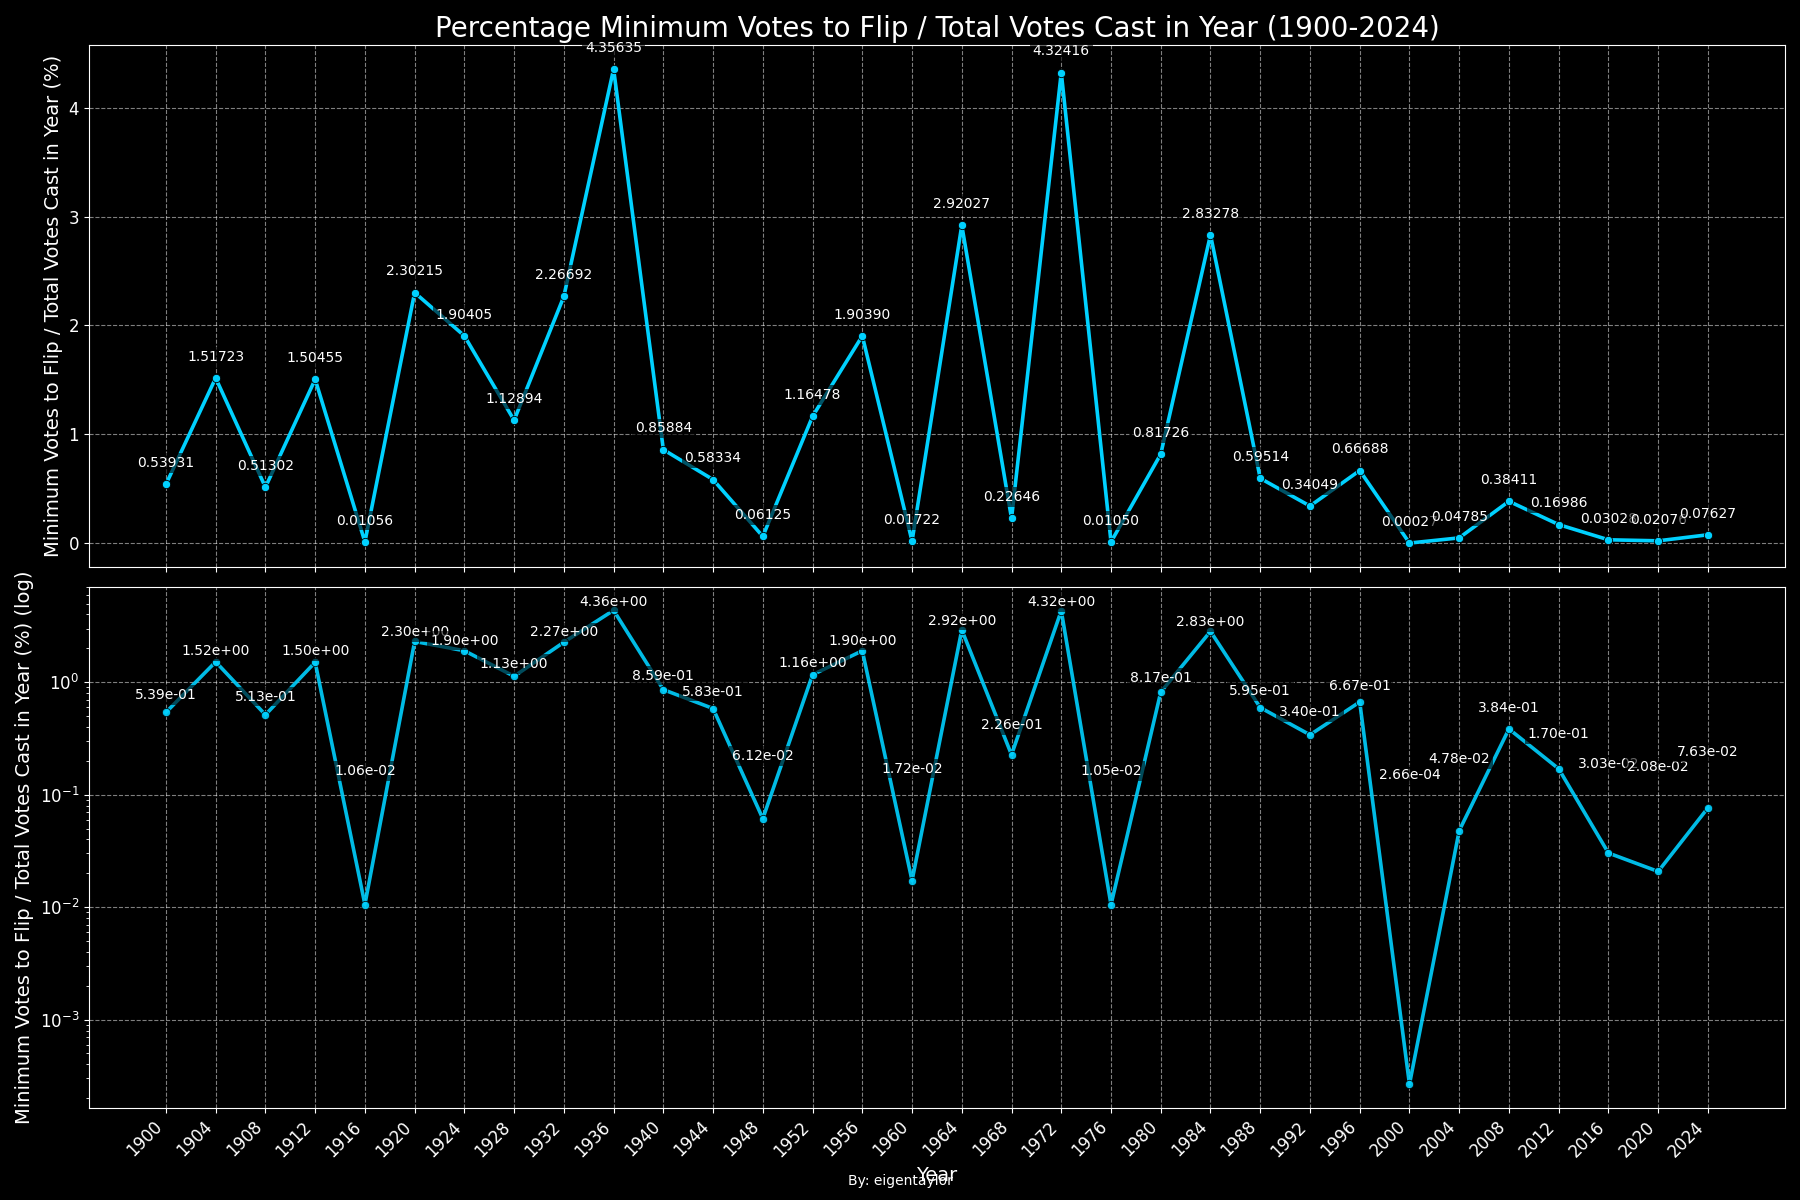
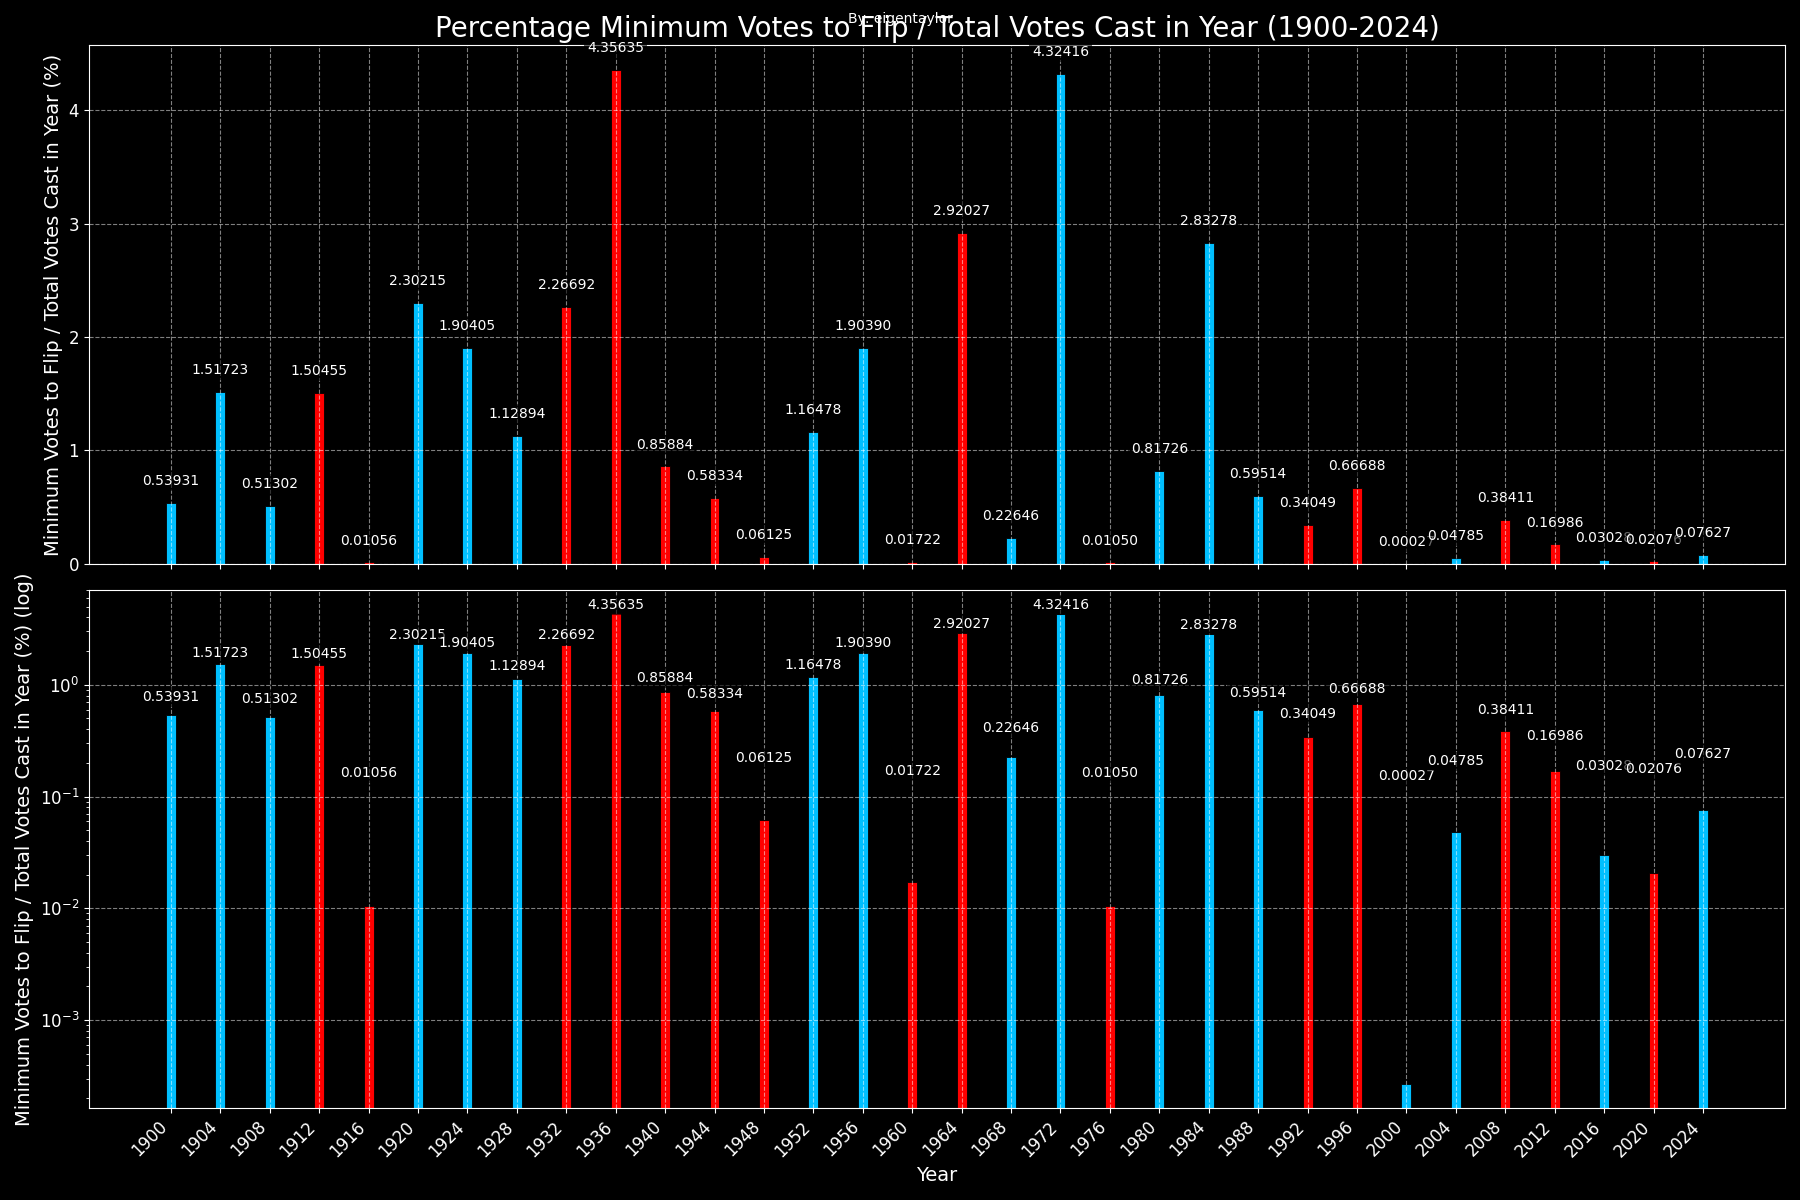
Improve bar plot color logic and add clear_files option
Enhanced the make_bar_plot function to use party-based colors for specific keys and handle special cases for 2000 and 2016. Added a clear_files argument to make_all_plots to optionally remove existing PNG files before generating new plots. Updated calls to use make_bar_plot instead of make_plot for relevant plots.

Changed region(s): [[0.0, 0.0308, 0.9956, 0.9558], [0.4978, 0.9558, 0.5289, 0.9867], [0.4978, 0.0, 0.5289, 0.0308]]

diff --git a/plotting.py b/plotting.py
@@ -149,16 +149,56 @@ def make_bar_plot(flip_results_df, start_year, end_year, plot_count, key, ylabel
     bar_color_default = '#ff6b6b'
     bar_edge = dict(edgecolor='black', linewidth=0.6)
 
+    # party colors (vibrant)
+    party_colors = {
+        'D': 'deepskyblue',  # '#2b83ba',
+        'R': 'red',  # '#ff4d4d',
+    }
+
+    # Keys that should use the electoral-college loser color
+    ec_loser_keys = {'min_votes_to_flip', 'number_of_flipped_states', 'flip_margin_ratio'}
+
+    # compute per-row colors when requested
+    def _compute_ec_loser_colors(df):
+        #  flip colors from the color column
+        if 'color' in df.columns:
+            colors = df['color'].apply(lambda c: party_colors['D'] if str(c).strip() == 'red' else party_colors['R']).copy()
+            # Force 2000 and 2016 to use party_colors['D']
+            for year in [2000, 2016]:
+                if year in df.index:
+                    colors.loc[year] = party_colors['D']
+            return colors
+        # try overall_winner or winner_party columns to infer loser
+        if 'overall_winner' in df.columns:
+            return df['overall_winner'].apply(lambda w: party_colors['D'] if str(w).strip() == 'R' else party_colors['R'])
+        if 'winner_party' in df.columns:
+            return df['winner_party'].apply(lambda w: party_colors['D'] if str(w).strip() == 'R' else party_colors['R'])
+        # fallback: uniform default
+        return [bar_color_default] * len(df)
+    
+    # choose default colors per row; for some keys use EC-loser colors
+    default_colors = flip_results_df['color'] if 'color' in flip_results_df.columns else bar_color_default
+    if key in ec_loser_keys:
+        #default_colors = flip_results_df['color'] if 'color' in flip_results_df.columns else bar_color_default#
+        default_colors = _compute_ec_loser_colors(flip_results_df)
+        # flip the colors for 2000 and 2016
+        # if 2000 in flip_results_df.index:
+        #     default_colors[2000] = party_colors['D']
+        # if 2016 in flip_results_df.index:
+        #     default_colors[2016] = party_colors['D']
+    else:
+        default_colors = flip_results_df['color'] if 'color' in flip_results_df.columns else bar_color_default
+
     if subplot_dual_log:
         fig, (ax_top, ax_bottom) = plt.subplots(2, 1, figsize=(18, 12), sharex=True)
 
         # Top
-        top_colors = flip_results_df['color'] if 'color' in flip_results_df.columns else bar_color_default
+        top_colors = default_colors
         if key in ('popular_vote_margin', 'popular_margin_ratio'):
             ax_top.bar(flip_results_df.index, data, color=top_colors, **bar_edge)
             ax_top.axhline(y=0, color='white', linewidth=1, linestyle='dashed')
         else:
-            ax_top.bar(flip_results_df.index, data, color=bar_color_default, **bar_edge)
+            ax_top.bar(flip_results_df.index, data, color=top_colors, **bar_edge)
 
         # Title/labels/fonts
         ax_top.set_ylabel(ylabel, fontsize=label_fs)
@@ -184,12 +224,12 @@ def make_bar_plot(flip_results_df, start_year, end_year, plot_count, key, ylabel
             ax_top.text(flip_results_df.index[i], y_text, formatted, ha='center', va=va, fontsize=data_label_fs, color='white', bbox=data_bbox)
 
         # Bottom (log or symlog depending on data)
-        bottom_colors = top_colors
+        bottom_colors = default_colors
         if key in ('popular_vote_margin', 'popular_margin_ratio'):
             ax_bottom.bar(flip_results_df.index, data, color=bottom_colors, **bar_edge)
             ax_bottom.axhline(y=0, color='white', linewidth=1, linestyle='dashed')
         else:
-            ax_bottom.bar(flip_results_df.index, data, color=bar_color_default, **bar_edge)
+            ax_bottom.bar(flip_results_df.index, data, color=bottom_colors, **bar_edge)
 
         if (data <= 0).any():
             ax_bottom.set_yscale('symlog', linthresh=1e-6)
@@ -228,12 +268,10 @@ def make_bar_plot(flip_results_df, start_year, end_year, plot_count, key, ylabel
 
     # Default single-axes behavior
     plt.figure(figsize=(18, 8))
-    default_colors = flip_results_df['color'] if 'color' in flip_results_df.columns else bar_color_default
+    
+    plt.bar(flip_results_df.index, flip_results_df[key], color=default_colors, **bar_edge)
     if key in ('popular_vote_margin', 'popular_margin_ratio'):
-        plt.bar(flip_results_df.index, flip_results_df[key], color=default_colors, **bar_edge)
         plt.axhline(y=0, color='white', linewidth=1, linestyle='dashed')
-    else:
-        plt.bar(flip_results_df.index, flip_results_df[key], color=bar_color_default, **bar_edge)
 
     # label fonts and title
     plt.xlabel('Year', fontsize=label_fs)
@@ -295,19 +333,20 @@ def make_state_frequency_plot(flip_results_df, start_year, end_year, plot_count,
         plt.show()
 
 
-def make_all_plots(flip_results_df, start_year, end_year, folder_path='results/', show_plot=False):
+def make_all_plots(flip_results_df, start_year, end_year, folder_path='results/', show_plot=False, clear_files=False):
     os.makedirs(folder_path, exist_ok=True)
-    # Remove all .png files in folder_path and its subfolders
-    for root, dirs, files in os.walk(folder_path):
-        for file in files:
-            if file.endswith('.png'):
-                os.remove(os.path.join(root, file))
+    if clear_files:
+        # Remove all .png files in folder_path and its subfolders
+        for root, dirs, files in os.walk(folder_path):
+            for file in files:
+                if file.endswith('.png'):
+                    os.remove(os.path.join(root, file))
 
     plot_count = 1
-    make_plot(flip_results_df, start_year, end_year, plot_count, 'min_votes_to_flip', 'Minimum Votes to Flip', f'Minimum Votes to Flip Election Result by Year ({start_year}-{end_year})', 'flip_results', folder_path, show_plot, subplot_dual_log=True)
+    make_bar_plot(flip_results_df, start_year, end_year, plot_count, 'min_votes_to_flip', 'Minimum Votes to Flip', f'Minimum Votes to Flip Election Result by Year ({start_year}-{end_year})', 'flip_results', folder_path, show_plot, subplot_dual_log=True)
     plot_count += 1
     # create a dual-subplot version: top regular, bottom log/symlog
-    make_plot(flip_results_df, start_year, end_year, plot_count, 'flip_margin_ratio', 'Minimum Votes to Flip / Total Votes Cast in Year (%)', f'Percentage Minimum Votes to Flip / Total Votes Cast in Year ({start_year}-{end_year})', 'flip_margin_ratio', folder_path, show_plot, use_log_scale=True, subplot_dual_log=True)
+    make_bar_plot(flip_results_df, start_year, end_year, plot_count, 'flip_margin_ratio', 'Minimum Votes to Flip / Total Votes Cast in Year (%)', f'Percentage Minimum Votes to Flip / Total Votes Cast in Year ({start_year}-{end_year})', 'flip_margin_ratio', folder_path, show_plot, subplot_dual_log=True)
     plot_count += 1
     # make_plot(flip_results_df, start_year, end_year, plot_count, 'flip_margin_ratio', 'Minimum Votes to Flip / Total Votes Cast in Year (%)', f'Percentage Minimum Votes to Flip / Total Votes Cast in Year ({start_year}-{end_year})', 'flip_margin_ratio', folder_path, show_plot, use_log_scale=False)
     # plot_count += 1
